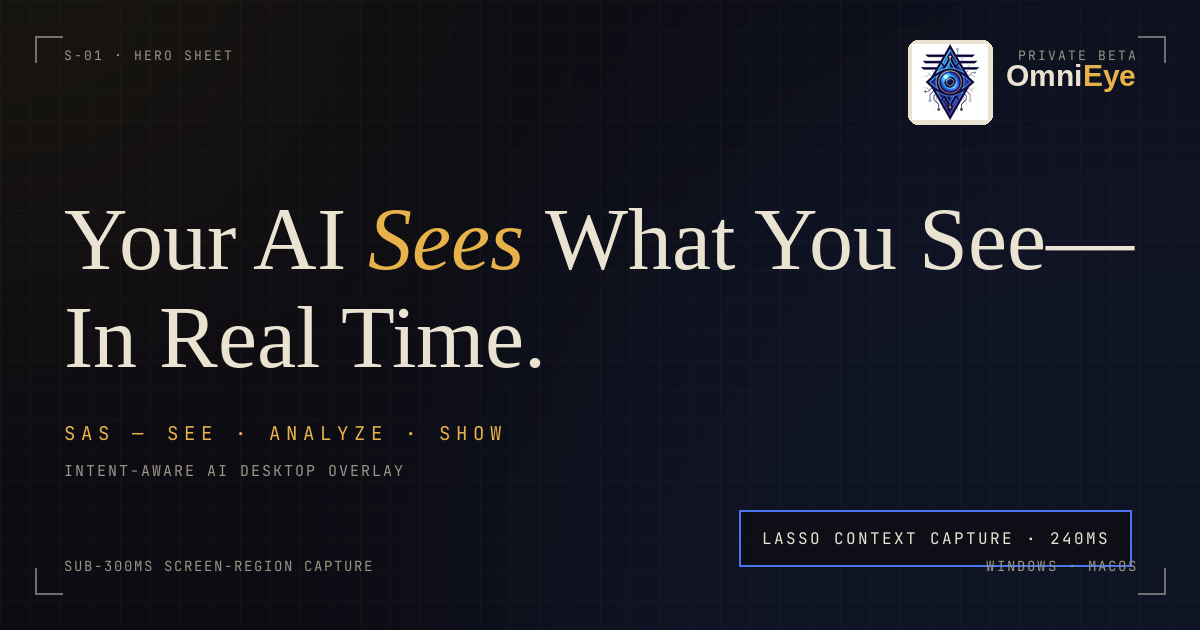
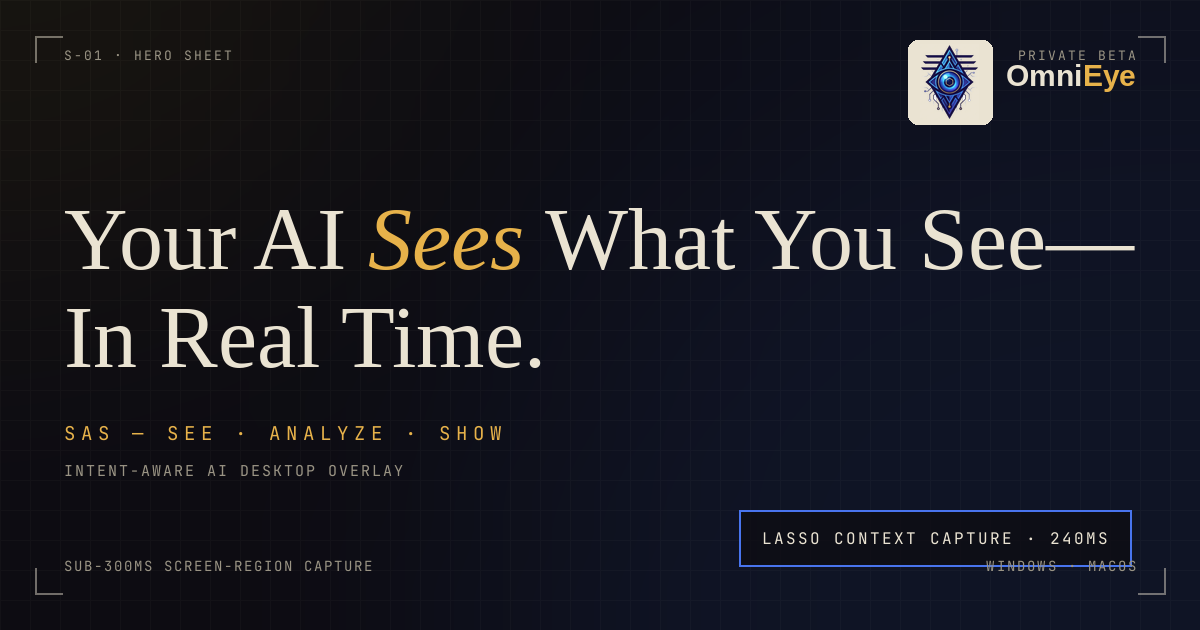
352fcae7-e5ce-4520-9bf2-8f182ff4354c

Changed region(s): [[0.74, 0.0603, 0.8325, 0.2111]]

diff --git a/src/components/omnieye/eye-mark.tsx b/src/components/omnieye/eye-mark.tsx
@@ -1,8 +1,9 @@
-import { useId } from "react";
+import Image from "next/image";
 
 /**
- * OmniEye line-art mark: an eye set in a diamond, sapphire→aureate stroke.
- * Used for nav, HUD cards, favicon and OG artwork.
+ * OmniEye brand mark — the client's emblem: a glowing eye set in a diamond
+ * with circuit traces (sapphire + aureate). Transparent PNG, provided
+ * 2026-11-10. Used for nav, footer, HUD cards, favicon and OG artwork.
  */
 export function EyeMark({
   size = 28,
@@ -11,43 +12,17 @@ export function EyeMark({
   size?: number;
   className?: string;
 }) {
-  const uid = useId().replace(/[^a-zA-Z0-9]/g, "");
-  const gid = `eyeg-${uid}`;
   return (
-    <svg
+    <Image
+      src="/brand/emblem.png"
+      alt=""
+      aria-hidden="true"
       width={size}
       height={size}
-      viewBox="0 0 48 48"
-      fill="none"
-      aria-hidden="true"
-      className={className}
-    >
-      <defs>
-        <linearGradient id={gid} x1="4" y1="44" x2="44" y2="4" gradientUnits="userSpaceOnUse">
-          <stop offset="0" stopColor="#4D7CFF" />
-          <stop offset="1" stopColor="#E7B24A" />
-        </linearGradient>
-      </defs>
-      {/* diamond frame */}
-      <rect
-        x="9.9"
-        y="9.9"
-        width="28.2"
-        height="28.2"
-        transform="rotate(45 24 24)"
-        stroke={`url(#${gid})`}
-        strokeWidth="2"
-      />
-      {/* eye */}
-      <path
-        d="M13.5 24c3.2-4.4 7-6.6 10.5-6.6S31.3 19.6 34.5 24c-3.2 4.4-7 6.6-10.5 6.6S16.7 28.4 13.5 24Z"
-        stroke={`url(#${gid})`}
-        strokeWidth="2"
-        strokeLinejoin="round"
-      />
-      <circle cx="24" cy="24" r="4.6" stroke="#E7B24A" strokeWidth="2" />
-      <circle cx="24" cy="24" r="1.7" fill="#E7B24A" />
-    </svg>
+      className={`object-contain ${className}`}
+      style={{ width: size, height: size }}
+      priority={false}
+    />
   );
 }
 

diff --git a/scripts/update-logo.py b/scripts/update-logo.py
@@ -1,0 +1,125 @@
+#!/usr/bin/env python3
+"""Replace the OmniEye emblem with the client's new logo image.
+
+Source: scripts/tmp/new-logo-full.jpg (1280x698 JPEG, white bg).
+Produces:
+  - public/brand/emblem.png   (transparent RGBA, trimmed)
+  - src/app/icon.png          (256x256 favicon tile)
+  - src/app/apple-icon.png    (180x180 Apple touch tile)
+  - scripts/tmp/logo-preview.png (QA contact sheet over dark/light)
+"""
+import os
+import numpy as np
+from PIL import Image, ImageDraw
+from scipy.ndimage import binary_propagation, binary_dilation
+
+SRC = "/home/z/my-project/scripts/tmp/new-logo-full.jpg"
+EMBLEM_OUT = "/home/z/my-project/public/brand/emblem.png"
+ICON_OUT = "/home/z/my-project/src/app/icon.png"
+APPLE_OUT = "/home/z/my-project/src/app/apple-icon.png"
+PREVIEW = "/home/z/my-project/scripts/tmp/logo-preview.png"
+
+BONE = (234, 227, 210)
+INK = (13, 12, 18)
+
+# ---- 1. load + background estimate -------------------------------------
+im = Image.open(SRC).convert("RGB")
+a = np.asarray(im).astype(np.float32)
+h, w, _ = a.shape
+
+corners = np.concatenate([
+    a[:22, :22].reshape(-1, 3),
+    a[:22, -22:].reshape(-1, 3),
+    a[-22:, :22].reshape(-1, 3),
+    a[-22:, -22:].reshape(-1, 3),
+])
+bg = np.median(corners, axis=0)
+print("bg color:", bg.round(1))
+
+# ---- 2. distance map ----------------------------------------------------
+dist = np.sqrt(((a - bg) ** 2).sum(axis=2))
+close = dist < 26  # candidate background pixels
+
+# ---- 3. flood-fill background from the borders --------------------------
+seed = np.zeros((h, w), dtype=bool)
+seed[0, :] = seed[-1, :] = seed[:, 0] = seed[:, -1] = True
+seed &= close
+bg_region = binary_propagation(seed, mask=close)
+print("bg region px:", int(bg_region.sum()), "/", h * w)
+
+# ---- 4. content bbox + crop ---------------------------------------------
+content = ~bg_region
+ys, xs = np.where(content)
+y0, y1, x0, x1 = ys.min(), ys.max(), xs.min(), xs.max()
+print("content bbox:", x0, y0, x1, y1)
+pad = 6
+x0, y0 = max(0, x0 - pad), max(0, y0 - pad)
+x1, y1 = min(w - 1, x1 + pad), min(h - 1, y1 + pad)
+a_c = a[y0:y1 + 1, x0:x1 + 1]
+dist_c = dist[y0:y1 + 1, x0:x1 + 1]
+bg_r_c = bg_region[y0:y1 + 1, x0:x1 + 1]
+ch, cw = a_c.shape[:2]
+
+# ---- 5. soft alpha + decontamination ------------------------------------
+# band of 2px around the flood region gets a distance-based alpha ramp so
+# anti-aliased edges don't leave a white halo on dark backgrounds.
+band = binary_dilation(bg_r_c, iterations=2) & ~bg_r_c
+alpha = np.full((ch, cw), 255.0)
+# inside the flood region: alpha from distance (faint circuit traces stay
+# semi-visible on dark backgrounds)
+ramp = np.clip((dist_c - 10.0) / (70.0 - 10.0), 0.0, 1.0) * 255.0
+alpha[bg_r_c] = ramp[bg_r_c]
+alpha[band] = np.maximum(ramp[band], alpha[band])
+
+alpha_u = alpha.astype(np.float32) / 255.0
+# un-mix the background out of semi-transparent pixels
+af = alpha_u[..., None]
+rgb = (a_c - (1.0 - af) * bg) / np.maximum(af, 1e-3)
+rgb = np.clip(rgb, 0, 255)
+
+out = np.dstack([rgb.astype(np.uint8), (alpha_u * 255).astype(np.uint8)])
+emblem = Image.fromarray(out, "RGBA")
+
+# final trim on alpha
+al = np.asarray(emblem)[:, :, 3]
+ys, xs = np.where(al > 8)
+ex0, ex1, ey0, ey1 = xs.min(), xs.max(), ys.min(), ys.max()
+emblem = emblem.crop((ex0, ey0, ex1 + 1, ey1 + 1))
+print("emblem size:", emblem.size)
+
+# light despeckle: drop fully-isolated alpha specks via slight median on alpha
+emblem.save(EMBLEM_OUT, "PNG")
+print("saved", EMBEDLEM_OUT if False else EMBLEM_OUT, os.path.getsize(EMBLEM_OUT), "bytes")
+
+# ---- 6. tiles: favicon + apple icon -------------------------------------
+def make_tile(size, out_path):
+    tile = Image.new("RGBA", (size, size), (0, 0, 0, 0))
+    d = ImageDraw.Draw(tile)
+    radius = int(size * 0.225)
+    d.rounded_rectangle((0, 0, size - 1, size - 1), radius=radius, fill=BONE + (255,))
+    # fit emblem into 78% of tile
+    box = int(size * 0.78)
+    em = emblem.copy()
+    em.thumbnail((box, box), Image.LANCZOS)
+    ex = (size - em.width) // 2
+    ey = (size - em.height) // 2
+    tile.alpha_composite(em, (ex, ey))
+    tile.save(out_path, "PNG")
+    print("saved", out_path, tile.size, os.path.getsize(out_path), "bytes")
+
+make_tile(256, ICON_OUT)
+make_tile(180, APPLE_OUT)
+
+# ---- 7. QA contact sheet ------------------------------------------------
+def over(img, color):
+    bgim = Image.new("RGBA", img.size, color + (255,))
+    return Image.alpha_composite(bgim, img)
+
+s = 2
+big = emblem.resize((emblem.width * s, emblem.height * s), Image.LANCZOS)
+sheet = Image.new("RGBA", (big.width * 3 + 40, big.height + 20), INK + (255,))
+sheet.alpha_composite(over(big, INK), (10, 10))
+sheet.alpha_composite(over(big, BONE), (20 + big.width, 10))
+sheet.alpha_composite(big, (30 + big.width * 2, 10))
+sheet.convert("RGB").save(PREVIEW)
+print("saved", PREVIEW)

diff --git a/scripts/generate-og.py b/scripts/generate-og.py
@@ -96,16 +96,19 @@ tracked(draw, (64, 420), "SAS — SEE · ANALYZE · SHOW", m19, AUREATE, 6)
 m15 = font(MONO, 15)
 tracked(draw, (64, 460), "INTENT-AWARE AI DESKTOP OVERLAY", m15, GRAPHITE, 2)
 
-# emblem badge top-right: bone rounded square + the real emblem
-emblem = Image.open("/home/z/my-project/public/brand/emblem.png").convert("RGB")
+# emblem badge top-right: bone rounded square + the client's emblem (RGBA)
+emblem = Image.open("/home/z/my-project/public/brand/emblem.png").convert("RGBA")
 badge = 84
-em = emblem.resize((badge - 8, badge - 8), Image.LANCZOS)
+em = emblem.copy()
+em.thumbnail((badge - 10, badge - 8), Image.LANCZOS)
 bx, by = 908, 40
 o = Image.new("RGBA", (W, H), (0, 0, 0, 0))
 od = ImageDraw.Draw(o)
 od.rounded_rectangle((bx, by, bx + badge, by + badge), radius=10, fill=(234, 227, 210, 255))
+ex = bx + (badge - em.width) // 2
+ey = by + (badge - em.height) // 2
+o.alpha_composite(em, (ex, ey))
 im = Image.alpha_composite(im.convert("RGBA"), o).convert("RGB")
-im.paste(em, (bx + 4, by + 4))
 draw = ImageDraw.Draw(im)
 
 s30 = font(SANS_B, 30)

diff --git a/scripts/prepare-assets.py b/scripts/prepare-assets.py
@@ -2,6 +2,11 @@
 """
 Prepare the client's real assets for the OmniEye landing page.
 
+NOTE (2026-11-13): the logo section of this script is SUPERSEDED.
+The client supplied a new emblem (WhatsApp image via postimg, processed by
+scripts/update-logo.py -> public/brand/emblem.png + src/app/icon.png +
+src/app/apple-icon.png). Do NOT re-run the logo part of this script.
+
 Asset map (per the build brief, section 6):
   img4  lasso-autocad  -> hero video-box poster (clean AutoCAD base screen)
   img6  multi-industry-b -> Healthcare visual (HIPAA chip covered + taskbar cropped)
@@ -10,7 +15,7 @@ Asset map (per the build brief, section 6):
   img2  hotkey         -> About filmstrip (toned)
   img3  privacy-panel  -> About filmstrip (toned)
   img7  storyboard-60s -> demo modal storyboard
-  logo  emblem         -> OG image badge, apple-icon
+  logo  emblem         -> OG image badge, apple-icon  [SUPERSEDED, see note]
 
 All web outputs are WebP with explicit sizes.
 """
